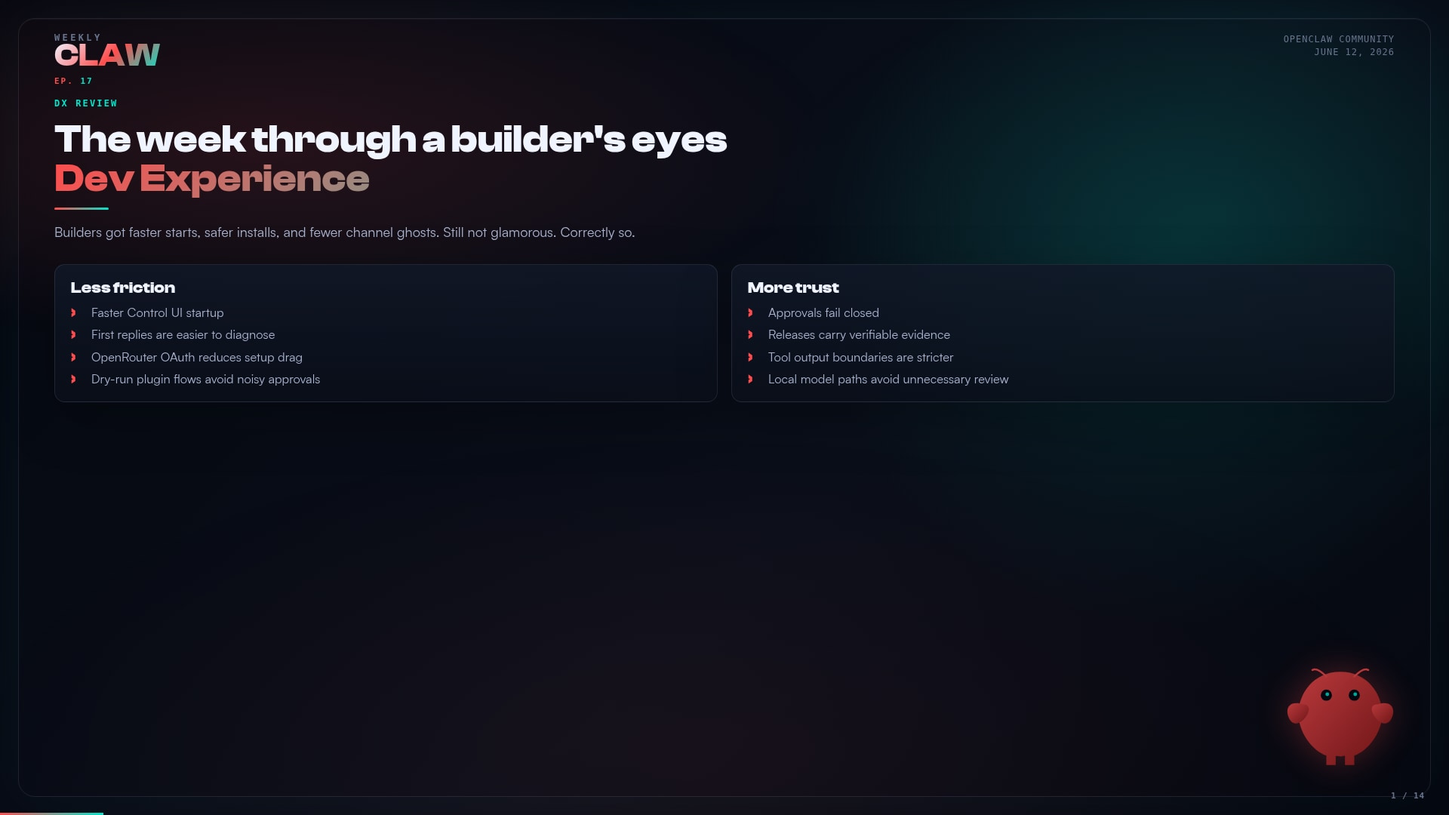
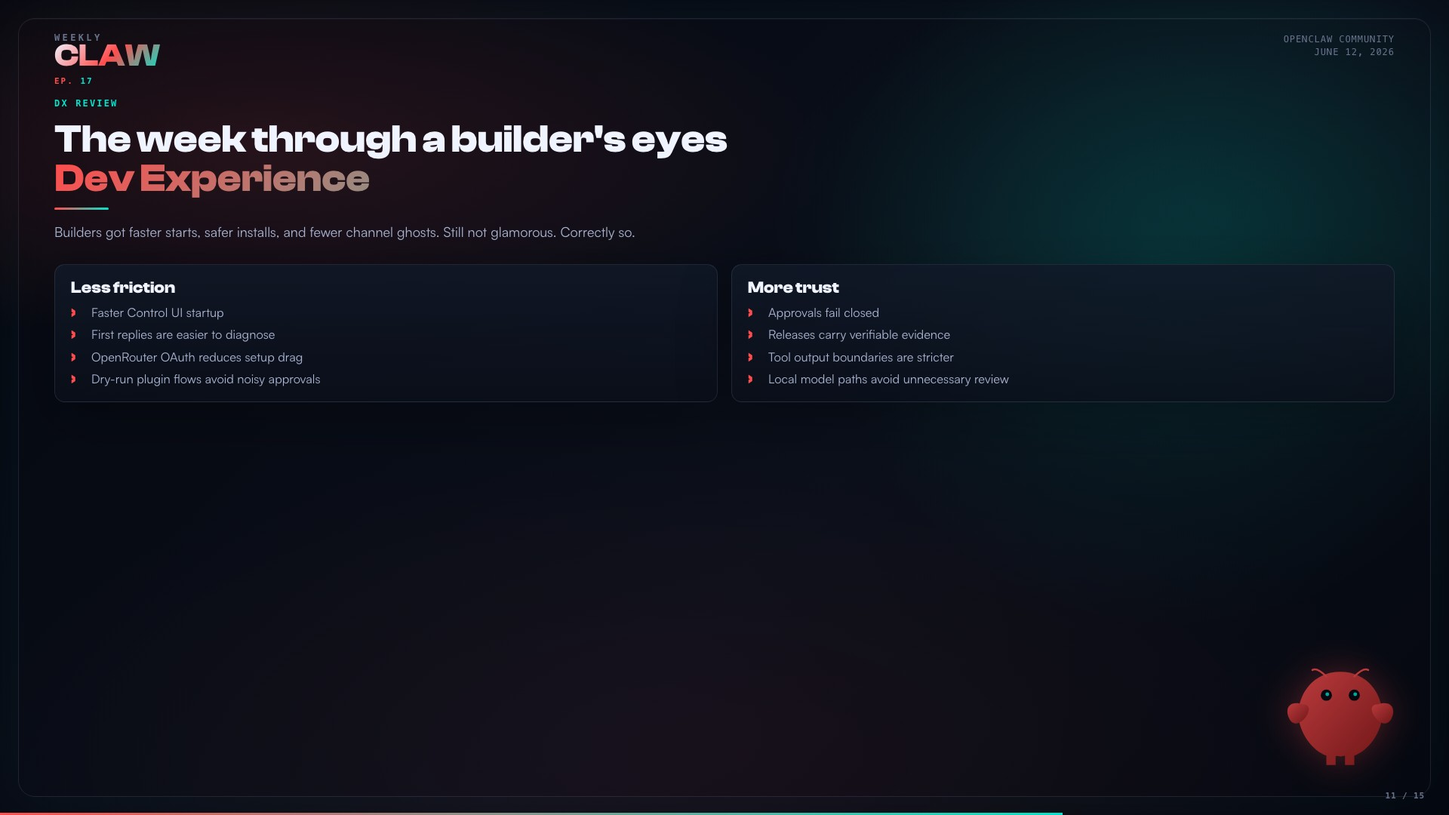
fix: add Peter BRK245 signal to Weekly Claw week 17

Changed region(s): [[0.0, 0.9778, 0.7188, 1.0]]

diff --git a/public/weekly-claw/week17/deck.html b/public/weekly-claw/week17/deck.html
@@ -6,7 +6,7 @@
 :root{--bg-deep:#050810;--bg-surface:#0a0f1a;--bg-elevated:#111827;--coral-bright:#ff4d4d;--coral-mid:#e63946;--coral-dark:#991b1b;--cyan-bright:#00e5cc;--cyan-mid:#14b8a6;--cyan-glow:rgba(0,229,204,.4);--text-primary:#f0f4ff;--text-secondary:#aab4d0;--text-muted:#69748f;--border-subtle:rgba(136,146,176,.18);--border-accent:rgba(255,77,77,.34);--surface-card:rgba(10,15,26,.72);--surface-card-strong:rgba(10,15,26,.88);--surface-cyan-soft:rgba(0,229,204,.13);--surface-coral-soft:rgba(255,77,77,.13);--logo-gradient-start:#ff4d4d;--logo-gradient-end:#991b1b;--logo-glow:rgba(255,77,77,.42);--font-display:"Clash Display",system-ui,sans-serif;--font-body:"Satoshi",system-ui,sans-serif;--font-mono:"SF Mono","JetBrains Mono","Fira Code",monospace}
 *,*::before,*::after{box-sizing:border-box;margin:0;padding:0}html,body{width:100%;height:100%;overflow:hidden;background:var(--bg-deep);color:var(--text-primary);font-family:var(--font-body);-webkit-font-smoothing:antialiased;-moz-osx-font-smoothing:grayscale}body::before{content:"";position:fixed;inset:0;background-image:radial-gradient(2px 2px at 20px 30px,rgba(255,255,255,.7),transparent),radial-gradient(2px 2px at 200px 60px,rgba(0,229,204,.5),transparent),radial-gradient(1px 1px at 90px 40px,rgba(255,255,255,.5),transparent),radial-gradient(2px 2px at 300px 40px,rgba(255,77,77,.35),transparent);background-size:350px 200px;opacity:.42;pointer-events:none}body::after{content:"";position:fixed;inset:0;background:radial-gradient(ellipse 80% 50% at 18% 18%,rgba(255,77,77,.13),transparent 50%),radial-gradient(ellipse 60% 60% at 84% 26%,rgba(0,229,204,.09),transparent 52%),radial-gradient(ellipse 90% 70% at 48% 92%,rgba(255,77,77,.06),transparent 56%);pointer-events:none}.deck{position:relative;width:100vw;height:100vh}.slide{position:absolute;inset:0;display:none;flex-direction:column;min-height:100vh;padding:44px 72px 42px;overflow:hidden;background:linear-gradient(135deg,rgba(5,8,16,.98),rgba(10,15,26,.98) 58%,rgba(5,8,16,.98));opacity:0;pointer-events:none}.slide.active{display:flex!important;opacity:1;pointer-events:auto}.slide::before{content:"";position:absolute;inset:24px;border:1px solid var(--border-subtle);border-radius:22px;box-shadow:0 0 80px rgba(0,229,204,.045),inset 0 1px 0 rgba(255,255,255,.04);pointer-events:none}.slide::after{content:"";position:absolute;right:-10vw;top:-18vh;width:58vw;height:58vw;border-radius:50%;background:radial-gradient(circle,rgba(0,229,204,.10),transparent 60%);pointer-events:none}.slide>*{position:relative;z-index:2}.topbar{display:flex;justify-content:space-between;align-items:flex-start;gap:28px;margin-bottom:30px}.claw-wordmark{display:flex;flex-direction:column;line-height:1;margin-bottom:22px}.topbar .claw-wordmark{margin-bottom:0}.claw-weekly{font:700 12px/1 var(--font-mono);letter-spacing:.28em;color:var(--text-muted);text-transform:uppercase}.claw-claw{font:700 42px/.9 var(--font-display);letter-spacing:0;background:linear-gradient(135deg,var(--text-primary),var(--coral-bright) 52%,var(--cyan-bright));-webkit-background-clip:text;background-clip:text;-webkit-text-fill-color:transparent}.claw-ep{margin-top:8px;font:700 11px/1 var(--font-mono);letter-spacing:.18em;color:var(--coral-bright);text-transform:uppercase}.ep-num{font-style:normal;color:var(--cyan-bright)}.meta{font:500 12px/1.45 var(--font-mono);color:var(--text-muted);text-align:right;text-transform:uppercase;letter-spacing:.08em}.ep-label,.eyebrow{font:700 12px/1 var(--font-mono);letter-spacing:.18em;color:var(--cyan-bright);text-transform:uppercase;margin-bottom:16px}.layout-title{justify-content:flex-start}.layout-outro{justify-content:center}.title-hero,h1,h2,.slide-title{font-family:var(--font-display);font-weight:700;letter-spacing:0;color:var(--text-primary)}.title-hero{font-size:clamp(42px,5.6vw,66px);line-height:.96;max-width:1060px;margin:0 0 18px}.title-hero em,.slide-title .accent{font-style:normal;background:linear-gradient(135deg,var(--coral-bright),var(--cyan-bright));-webkit-background-clip:text;background-clip:text;-webkit-text-fill-color:transparent}.title-hero em{display:block;font-size:.68em;line-height:1.02;margin-top:.08em}h2,.slide-title{font-size:clamp(38px,5.2vw,60px);line-height:1;max-width:1080px;margin:0 0 16px}.slide-title .accent{display:block}.gold-rule{width:72px;height:3px;border-radius:999px;background:linear-gradient(90deg,var(--coral-bright),var(--cyan-bright));margin:0 0 24px}.lead{font-size:clamp(17px,1.75vw,21px);line-height:1.42;color:var(--text-secondary);max-width:1080px;margin:0 0 18px}.card{border:1px solid var(--border-subtle);background:linear-gradient(180deg,rgba(17,24,39,.86),rgba(10,15,26,.76));border-radius:14px;box-shadow:0 22px 70px rgba(0,0,0,.28);padding:18px 24px;max-width:1120px}.grid{display:grid;grid-template-columns:repeat(2,minmax(0,1fr));gap:20px;margin:auto 0}.grid.three-tight{grid-template-columns:repeat(3,minmax(0,1fr));gap:14px;margin:10px 0 0;align-items:stretch}.grid.three-tight .card{padding:14px 17px}.grid.three-tight .card strong{font-size:18px;line-height:1.1;margin-bottom:8px}.grid.three-tight li{font-size:14.8px;line-height:1.16;gap:9px}.grid.three-tight li::before{font-size:20px;min-width:10px}.grid.two-tight{grid-template-columns:repeat(2,minmax(0,1fr));gap:18px;margin:18px 0 0;align-items:stretch}.grid.two-tight .card{padding:18px 21px}.grid.two-tight li{font-size:16.4px;line-height:1.22}.card strong{display:block;font:700 22px/1.15 var(--font-display);color:var(--text-primary);margin-bottom:10px}ul,.bullet-list{list-style:none;display:flex;flex-direction:column;gap:8px;margin:10px 0 0;padding:0;max-width:1080px}li,.bullet-list li{display:flex;gap:12px;align-items:flex-start;font-size:clamp(15px,1.42vw,18px);line-height:1.3;color:var(--text-secondary);margin:0}li::before,.bullet-list li::before{content:"›";font:700 25px/.86 var(--font-display);color:var(--coral-bright);min-width:15px}.meta-pill{display:inline-flex;align-items:center;border:1px solid rgba(0,229,204,.34);border-radius:999px;padding:7px 11px;margin-top:14px;background:var(--surface-cyan-soft);color:var(--cyan-bright);font:600 12px/1 var(--font-mono)}.caption{display:none}.lobster-icon{position:absolute;right:70px;bottom:54px;width:148px;height:148px;opacity:.80;filter:drop-shadow(0 0 24px var(--logo-glow));z-index:1;pointer-events:none}.layout-title .lobster-icon{width:150px;height:150px;right:46px;bottom:34px;opacity:.58}.slide:not(.layout-title) .lobster-icon{opacity:.72}.lobster-icon svg{width:100%;height:100%}.slide-counter,.nav-hint{position:fixed;z-index:30;bottom:20px;color:var(--text-muted);font:600 11px/1 var(--font-mono);letter-spacing:.08em}.slide-counter{right:32px}.nav-hint{left:32px;display:none}.progress-bar{position:fixed;z-index:30;bottom:0;left:0;height:3px;background:linear-gradient(90deg,var(--coral-bright),var(--cyan-bright));transition:width .25s ease}.compact-slide .topbar{margin-bottom:18px}.compact-slide h2,.compact-slide .slide-title{font-size:clamp(34px,4.6vw,52px);margin-bottom:12px}.compact-slide .lead{font-size:clamp(15px,1.45vw,18px);line-height:1.32;margin-bottom:12px}.compact-slide .gold-rule{margin-bottom:18px}@media(max-width:900px){.slide{padding:42px 34px 40px}.slide::before{inset:12px;border-radius:16px}.topbar,.grid,.grid.two-tight,.grid.three-tight{grid-template-columns:1fr;display:grid}h2,.slide-title{font-size:44px}.title-hero{font-size:52px}.lead,li,.bullet-list li{font-size:17px}.lobster-icon{right:26px;bottom:42px;width:110px;height:110px}}@media print{html,body{overflow:visible}.deck{height:auto}.slide,.slide:not(.active){position:relative;display:flex!important;opacity:1;min-height:100vh;page-break-after:always}.progress-bar,.slide-counter,.nav-hint{display:none}}
 </style></head><body>
-<div aria-label="Weekly Claw Ep. 17 slides" class="deck" id="deck" role="main"><section class="slide active layout-title" id="s1"><div class="claw-wordmark"><span class="claw-weekly">Weekly</span><span class="claw-claw">CLAW</span><span class="claw-ep">Ep. <em class="ep-num">17</em></span></div><div class="ep-label">Weekly Claw · Ep. 17</div><h1 class="title-hero">OpenClaw Change log &amp; Dev Experience<br/><em>Weekly Claw Ep. 17</em></h1><div class="gold-rule"></div><p class="lead">Two stable releases, 1,265 commits, and a week mostly spent tightening the runtime boundaries.</p><div class="grid"><div class="card"><strong>Release window</strong><ul class="bullet-list"><li>v2026.6.5 on June 9</li><li>v2026.6.6 on June 12</li><li>June 5 to June 12, 2026</li></ul></div><div class="card"><strong>Main story</strong><ul class="bullet-list"><li>Security surfaces fail closed more often</li><li>Channels survive restarts more cleanly</li><li>Release proof got stricter</li></ul></div></div><span class="meta-pill">week17-boundaries.html</span><p class="caption">OpenClaw Weekly Dev Experience · slide 1 / 14</p></section><section class="slide layout-topic compact-slide" id="s2"><div class="topbar"><div class="claw-wordmark"><span class="claw-weekly">Weekly</span><span class="claw-claw">CLAW</span><span class="claw-ep">Ep. <em class="ep-num">17</em></span></div><div class="meta">OpenClaw Community<br/>June 12, 2026</div></div><div class="ep-label">Community pulse</div><h2 class="slide-title">The week in raw signal<br/><span class="accent">Throughput</span></h2><div class="gold-rule"></div><p class="lead">A fix-heavy, test-heavy week with broad contribution and two stable releases.</p><div class="grid three-tight"><div class="card"><strong>Numbers</strong><ul class="bullet-list"><li>1,265 commits</li><li>131 authors</li><li>187 release issue refs across 6.5 and 6.6</li></ul></div><div class="card"><strong>Commit mix</strong><ul class="bullet-list"><li>794 fixes</li><li>191 tests</li><li>117 docs</li><li>30 features</li></ul></div><div class="card"><strong>Top contributors</strong><ul class="bullet-list"><li>Vincent Koc 525</li><li>Shakker 172</li><li>Peter Steinberger 118</li><li>Ayaan Zaidi 55</li><li>joshavant 52</li></ul></div></div><p class="caption">OpenClaw Weekly Dev Experience · slide 2 / 14</p></section><section class="slide layout-topic compact-slide" id="s3"><div class="topbar"><div class="claw-wordmark"><span class="claw-weekly">Weekly</span><span class="claw-claw">CLAW</span><span class="claw-ep">Ep. <em class="ep-num">17</em></span></div><div class="meta">OpenClaw Community<br/>June 12, 2026</div></div><div class="ep-label">Release map</div><h2 class="slide-title">Two stable releases, one hardening arc<br/><span class="accent">6.5 + 6.6</span></h2><div class="gold-rule"></div><p class="lead">The release train split into two useful stories: richer provider/channel support in 6.5, then tighter boundaries in 6.6.</p><div class="grid two-tight"><div class="card"><strong>v2026.6.5</strong><ul class="bullet-list"><li>70 release bullets</li><li>83 issue refs</li><li>QQBot reasoning cleanup</li><li>Parallel web search provider</li><li>Auth and plugin install durability</li></ul></div><div class="card"><strong>v2026.6.6</strong><ul class="bullet-list"><li>34 release bullets</li><li>104 issue refs</li><li>Security boundary hardening</li><li>Telegram and iMessage recovery</li><li>Control UI startup speed</li></ul></div></div><p class="caption">OpenClaw Weekly Dev Experience · slide 3 / 14</p></section><section class="slide layout-topic" id="s4"><div class="topbar"><div class="claw-wordmark"><span class="claw-weekly">Weekly</span><span class="claw-claw">CLAW</span><span class="claw-ep">Ep. <em class="ep-num">17</em></span></div><div class="meta">OpenClaw Community<br/>June 12, 2026</div></div><div class="ep-label">Security</div><h2 class="slide-title">Boundaries got tighter, and they fail closed<br/><span class="accent">Runtime safety</span></h2><div class="gold-rule"></div><p class="lead">The largest 6.6 theme was reducing silent trust leaks across transcripts, tools, channels, and delegated runtimes.</p><div class="grid two-tight"><div class="card"><strong>Locked down</strong><ul class="bullet-list"><li>Transcript and image redaction tightened</li><li>Sandbox binds and host env inheritance restricted</li><li>MCP stdio and loopback tools hardened</li><li>Codex HTTP and native search policies narrowed</li></ul></div><div class="card"><strong>Fail closed</strong><ul class="bullet-list"><li>Exec approvals fail closed on timeout</li><li>Elevated sender checks improved</li><li>Deleted-agent ACP bypass closed</li><li>Discord moderation and Teams group actions bounded</li></ul></div></div><p class="caption">OpenClaw Weekly Dev Experience · slide 4 / 14</p></section><section class="slide layout-topic" id="s5"><div class="topbar"><div class="claw-wordmark"><span class="claw-weekly">Weekly</span><span class="claw-claw">CLAW</span><span class="claw-ep">Ep. <em class="ep-num">17</em></span></div><div class="meta">OpenClaw Community<br/>June 12, 2026</div></div><div class="ep-label">Channels</div><h2 class="slide-title">Delivery that survives restarts<br/><span class="accent">Channel durability</span></h2><div class="gold-rule"></div><p class="lead">Messaging reliability moved from best effort toward durable routing, dedupe, and restart recovery.</p><div class="grid two-tight"><div class="card"><strong>Telegram</strong><ul class="bullet-list"><li>Account-scoped topics route to the right agent</li><li>Streamed text survives tool calls</li><li>Generic ingress supports /compact</li><li>Durable dispatch dedupe moved into the SDK</li></ul></div><div class="card"><strong>Other channels</strong><ul class="bullet-list"><li>iMessage always-on inbound restart</li><li>WhatsApp replies attach to the successor controller</li><li>Feishu rate limits retry</li><li>Mattermost thread replies preserved</li></ul></div></div><p class="caption">OpenClaw Weekly Dev Experience · slide 5 / 14</p></section><section class="slide layout-topic" id="s6"><div class="topbar"><div class="claw-wordmark"><span class="claw-weekly">Weekly</span><span class="claw-claw">CLAW</span><span class="claw-ep">Ep. <em class="ep-num">17</em></span></div><div class="meta">OpenClaw Community<br/>June 12, 2026</div></div><div class="ep-label">Browser and MCP</div><h2 class="slide-title">Real sessions, safer edges<br/><span class="accent">Connectivity</span></h2><div class="gold-rule"></div><p class="lead">Browser and MCP integrations gained reach without turning every tool boundary into a trust fall.</p><div class="grid two-tight"><div class="card"><strong>Browser</strong><ul class="bullet-list"><li>Existing-session CDP support</li><li>Discovered WebSocket validation</li><li>Default-profile cdpUrl handling</li><li>Browser output boundaries tightened</li></ul></div><div class="card"><strong>MCP</strong><ul class="bullet-list"><li>Streamable HTTP loopback transport</li><li>OAuth and SSE authorization corrected</li><li>Richer tool results coerced before provider calls</li><li>Lease and timestamp handling got stricter</li></ul></div></div><p class="caption">OpenClaw Weekly Dev Experience · slide 6 / 14</p></section><section class="slide layout-topic" id="s7"><div class="topbar"><div class="claw-wordmark"><span class="claw-weekly">Weekly</span><span class="claw-claw">CLAW</span><span class="claw-ep">Ep. <em class="ep-num">17</em></span></div><div class="meta">OpenClaw Community<br/>June 12, 2026</div></div><div class="ep-label">Control UI</div><h2 class="slide-title">Startup got faster, first replies got visible<br/><span class="accent">Latency</span></h2><div class="gold-rule"></div><p class="lead">The UI work was not cosmetic. It attacked startup wait, first-event mystery, and model catalog churn.</p><div class="grid two-tight"><div class="card"><strong>Speed</strong><ul class="bullet-list"><li>Cached model metadata at startup</li><li>Startup catalog wait removed</li><li>Slash commands load lazily</li><li>TUI runtime plugins prewarm</li></ul></div><div class="card"><strong>Diagnostics</strong><ul class="bullet-list"><li>First-assistant-event traces</li><li>Slow-reply warnings</li><li>Active connection host visible in TUI</li><li>Derived-registry rescan storms reduced</li></ul></div></div><p class="caption">OpenClaw Weekly Dev Experience · slide 7 / 14</p></section><section class="slide layout-topic" id="s8"><div class="topbar"><div class="claw-wordmark"><span class="claw-weekly">Weekly</span><span class="claw-claw">CLAW</span><span class="claw-ep">Ep. <em class="ep-num">17</em></span></div><div class="meta">OpenClaw Community<br/>June 12, 2026</div></div><div class="ep-label">Providers</div><h2 class="slide-title">More providers, fewer weird failures<br/><span class="accent">Model surface</span></h2><div class="gold-rule"></div><p class="lead">Provider support expanded while reasoning replay, compaction ownership, and local-model behavior got cleaner.</p><div class="grid two-tight"><div class="card"><strong>New support</strong><ul class="bullet-list"><li>OpenRouter OAuth onboarding</li><li>Claude Fable 5 adaptive thinking</li><li>Parallel bundled as web_search</li><li>Google Vertex ADC rows and runtime resolution restored</li></ul></div><div class="card"><strong>Correctness</strong><ul class="bullet-list"><li>Codex compaction ownership preserved</li><li>Local models skip guardian review</li><li>Gemma 4 reasoning replay preserved</li><li>Provider cooldown recovery improved</li></ul></div></div><p class="caption">OpenClaw Weekly Dev Experience · slide 8 / 14</p></section><section class="slide layout-topic" id="s9"><div class="topbar"><div class="claw-wordmark"><span class="claw-weekly">Weekly</span><span class="claw-claw">CLAW</span><span class="claw-ep">Ep. <em class="ep-num">17</em></span></div><div class="meta">OpenClaw Community<br/>June 12, 2026</div></div><div class="ep-label">Cron and plugins</div><h2 class="slide-title">Jobs and installs left better receipts<br/><span class="accent">Lifecycle</span></h2><div class="gold-rule"></div><p class="lead">Scheduled runs, plugin installs, and ClawHub flows became harder to fake-green.</p><div class="grid two-tight"><div class="card"><strong>Cron</strong><ul class="bullet-list"><li>Active task runs cancel cleanly</li><li>Terminal timeout state is preserved</li><li>No-deliver tool warnings recover</li><li>Legacy cron JSON stores migrate during doctor preflight</li></ul></div><div class="card"><strong>Plugins</strong><ul class="bullet-list"><li>Dry runs skip publish approval</li><li>Trusted hooks can be declared</li><li>Managed plugin drift is reported</li><li>Official npm plugin pins stay intact</li></ul></div></div><p class="caption">OpenClaw Weekly Dev Experience · slide 9 / 14</p></section><section class="slide layout-topic" id="s10"><div class="topbar"><div class="claw-wordmark"><span class="claw-weekly">Weekly</span><span class="claw-claw">CLAW</span><span class="claw-ep">Ep. <em class="ep-num">17</em></span></div><div class="meta">OpenClaw Community<br/>June 12, 2026</div></div><div class="ep-label">Release proof</div><h2 class="slide-title">Release proof got stricter<br/><span class="accent">Evidence lanes</span></h2><div class="gold-rule"></div><p class="lead">The release system now fails louder when proof is missing, oversized, or impossible to inspect.</p><div class="grid two-tight"><div class="card"><strong>Gates</strong><ul class="bullet-list"><li>Beta pages stay draft until npm and plugin proof pass</li><li>QA Lab requires runtime tool-call evidence</li><li>Resource ceilings are enforced, not only logged</li><li>Docker and E2E diagnostics are bounded</li></ul></div><div class="card"><strong>Receipts</strong><ul class="bullet-list"><li>npm package and tarball integrity</li><li>Release SHA and CI run links</li><li>Full evidence reports for 6.5 and 6.6</li><li>Plugin publish proof separated from core publish proof</li></ul></div></div><p class="caption">OpenClaw Weekly Dev Experience · slide 10 / 14</p></section><section class="slide layout-topic compact-slide" id="s11"><div class="topbar"><div class="claw-wordmark"><span class="claw-weekly">Weekly</span><span class="claw-claw">CLAW</span><span class="claw-ep">Ep. <em class="ep-num">17</em></span></div><div class="meta">OpenClaw Community<br/>June 12, 2026</div></div><div class="ep-label">DX review</div><h2 class="slide-title">The week through a builder&#x27;s eyes<br/><span class="accent">Dev Experience</span></h2><div class="gold-rule"></div><p class="lead">Builders got faster starts, safer installs, and fewer channel ghosts. Still not glamorous. Correctly so.</p><div class="grid two-tight"><div class="card"><strong>Less friction</strong><ul class="bullet-list"><li>Faster Control UI startup</li><li>First replies are easier to diagnose</li><li>OpenRouter OAuth reduces setup drag</li><li>Dry-run plugin flows avoid noisy approvals</li></ul></div><div class="card"><strong>More trust</strong><ul class="bullet-list"><li>Approvals fail closed</li><li>Releases carry verifiable evidence</li><li>Tool output boundaries are stricter</li><li>Local model paths avoid unnecessary review</li></ul></div></div><p class="caption">OpenClaw Weekly Dev Experience · slide 11 / 14</p></section><section class="slide layout-topic compact-slide" id="s12"><div class="topbar"><div class="claw-wordmark"><span class="claw-weekly">Weekly</span><span class="claw-claw">CLAW</span><span class="claw-ep">Ep. <em class="ep-num">17</em></span></div><div class="meta">OpenClaw Community<br/>June 12, 2026</div></div><div class="ep-label">Community signal</div><h2 class="slide-title">The community is testing the edges<br/><span class="accent">Signal</span></h2><div class="gold-rule"></div><p class="lead">The busiest labels and release notes point to the same pattern: session state, proof, compatibility, and maintainer review pressure.</p><div class="grid two-tight"><div class="card"><strong>Repeated pressure</strong><ul class="bullet-list"><li>Session-state issues stayed prominent</li><li>Compatibility risk labels stayed loud</li><li>Proof supplied and proof sufficient both showed up heavily</li><li>Maintainer review queues remained visible</li></ul></div><div class="card"><strong>Good sign</strong><ul class="bullet-list"><li>A fix-heavy week is not stagnation</li><li>It means real users are finding seams</li><li>The runtime is being forced to explain itself</li></ul></div></div><p class="caption">OpenClaw Weekly Dev Experience · slide 12 / 14</p></section><section class="slide layout-topic compact-slide" id="s13"><div class="topbar"><div class="claw-wordmark"><span class="claw-weekly">Weekly</span><span class="claw-claw">CLAW</span><span class="claw-ep">Ep. <em class="ep-num">17</em></span></div><div class="meta">OpenClaw Community<br/>June 12, 2026</div></div><div class="ep-label">Signal map</div><h2 class="slide-title">Where to watch next<br/><span class="accent">Next bar</span></h2><div class="gold-rule"></div><p class="lead">The next useful work is not more surface area. It is clearer state, safer defaults, and receipts that survive handoff.</p><div class="grid two-tight"><div class="card"><strong>Watch</strong><ul class="bullet-list"><li>Provider onboarding and OAuth failure clarity</li><li>Channel delivery after restarts</li><li>Cron no-deliver and timeout reporting</li><li>Plugin install trust and rollback paths</li></ul></div><div class="card"><strong>Ask</strong><ul class="bullet-list"><li>Can a new builder explain the failure state?</li><li>Can maintainers audit the run without logs archaeology?</li><li>Can every risky action show its boundary?</li><li>Can proof stay small enough to inspect?</li></ul></div></div><p class="caption">OpenClaw Weekly Dev Experience · slide 13 / 14</p></section><section class="slide layout-outro" id="s14"><div class="ep-label">Summary</div><h2 class="slide-title">OpenClaw is becoming operational infrastructure<br/><span class="accent">Close</span></h2><div class="gold-rule"></div><p class="lead">Week 17 was not a shiny-feature week. It was better: the runtime got stricter about who can act, what can leak, how channels recover, and what proof must exist before a release ships.</p><div class="grid"><div class="card"><strong>Bottom line</strong><ul class="bullet-list"><li>Two stable releases</li><li>1,265 commits</li><li>Security and delivery hardening</li><li>A clearer path from agent demos to agent operations</li></ul></div></div><p class="caption">OpenClaw Weekly Dev Experience · slide 14 / 14</p></section></div>
+<div aria-label="Weekly Claw Ep. 17 slides" class="deck" id="deck" role="main"><section class="slide active layout-title" id="s1"><div class="claw-wordmark"><span class="claw-weekly">Weekly</span><span class="claw-claw">CLAW</span><span class="claw-ep">Ep. <em class="ep-num">17</em></span></div><div class="ep-label">Weekly Claw · Ep. 17</div><h1 class="title-hero">OpenClaw Change log &amp; Dev Experience<br/><em>Weekly Claw Ep. 17</em></h1><div class="gold-rule"></div><p class="lead">Two stable releases, 1,265 commits, and a week mostly spent tightening the runtime boundaries.</p><div class="grid"><div class="card"><strong>Release window</strong><ul class="bullet-list"><li>v2026.6.5 on June 9</li><li>v2026.6.6 on June 12</li><li>June 5 to June 12, 2026</li></ul></div><div class="card"><strong>Main story</strong><ul class="bullet-list"><li>Security surfaces fail closed more often</li><li>Channels survive restarts more cleanly</li><li>Release proof got stricter</li></ul></div></div><span class="meta-pill">week17-boundaries.html</span><p class="caption">OpenClaw Weekly Dev Experience · slide 1 / 15</p></section><section class="slide layout-topic compact-slide" id="s2"><div class="topbar"><div class="claw-wordmark"><span class="claw-weekly">Weekly</span><span class="claw-claw">CLAW</span><span class="claw-ep">Ep. <em class="ep-num">17</em></span></div><div class="meta">OpenClaw Community<br/>June 12, 2026</div></div><div class="ep-label">Community pulse</div><h2 class="slide-title">The week in raw signal<br/><span class="accent">Throughput</span></h2><div class="gold-rule"></div><p class="lead">A fix-heavy, test-heavy week with broad contribution and two stable releases.</p><div class="grid three-tight"><div class="card"><strong>Numbers</strong><ul class="bullet-list"><li>1,265 commits</li><li>131 authors</li><li>187 release issue refs across 6.5 and 6.6</li></ul></div><div class="card"><strong>Commit mix</strong><ul class="bullet-list"><li>794 fixes</li><li>191 tests</li><li>117 docs</li><li>30 features</li></ul></div><div class="card"><strong>Top contributors</strong><ul class="bullet-list"><li>Vincent Koc 525</li><li>Shakker 172</li><li>Peter Steinberger 118</li><li>Ayaan Zaidi 55</li><li>joshavant 52</li></ul></div></div><p class="caption">OpenClaw Weekly Dev Experience · slide 2 / 15</p></section><section class="slide layout-topic compact-slide" id="s3"><div class="topbar"><div class="claw-wordmark"><span class="claw-weekly">Weekly</span><span class="claw-claw">CLAW</span><span class="claw-ep">Ep. <em class="ep-num">17</em></span></div><div class="meta">OpenClaw Community<br/>June 12, 2026</div></div><div class="ep-label">Release map</div><h2 class="slide-title">Two stable releases, one hardening arc<br/><span class="accent">6.5 + 6.6</span></h2><div class="gold-rule"></div><p class="lead">The release train split into two useful stories: richer provider/channel support in 6.5, then tighter boundaries in 6.6.</p><div class="grid two-tight"><div class="card"><strong>v2026.6.5</strong><ul class="bullet-list"><li>70 release bullets</li><li>83 issue refs</li><li>QQBot reasoning cleanup</li><li>Parallel web search provider</li><li>Auth and plugin install durability</li></ul></div><div class="card"><strong>v2026.6.6</strong><ul class="bullet-list"><li>34 release bullets</li><li>104 issue refs</li><li>Security boundary hardening</li><li>Telegram and iMessage recovery</li><li>Control UI startup speed</li></ul></div></div><p class="caption">OpenClaw Weekly Dev Experience · slide 3 / 15</p></section><section class="slide layout-topic" id="s4"><div class="topbar"><div class="claw-wordmark"><span class="claw-weekly">Weekly</span><span class="claw-claw">CLAW</span><span class="claw-ep">Ep. <em class="ep-num">17</em></span></div><div class="meta">OpenClaw Community<br/>June 12, 2026</div></div><div class="ep-label">Security</div><h2 class="slide-title">Boundaries got tighter, and they fail closed<br/><span class="accent">Runtime safety</span></h2><div class="gold-rule"></div><p class="lead">The largest 6.6 theme was reducing silent trust leaks across transcripts, tools, channels, and delegated runtimes.</p><div class="grid two-tight"><div class="card"><strong>Locked down</strong><ul class="bullet-list"><li>Transcript and image redaction tightened</li><li>Sandbox binds and host env inheritance restricted</li><li>MCP stdio and loopback tools hardened</li><li>Codex HTTP and native search policies narrowed</li></ul></div><div class="card"><strong>Fail closed</strong><ul class="bullet-list"><li>Exec approvals fail closed on timeout</li><li>Elevated sender checks improved</li><li>Deleted-agent ACP bypass closed</li><li>Discord moderation and Teams group actions bounded</li></ul></div></div><p class="caption">OpenClaw Weekly Dev Experience · slide 4 / 15</p></section><section class="slide layout-topic" id="s5"><div class="topbar"><div class="claw-wordmark"><span class="claw-weekly">Weekly</span><span class="claw-claw">CLAW</span><span class="claw-ep">Ep. <em class="ep-num">17</em></span></div><div class="meta">OpenClaw Community<br/>June 12, 2026</div></div><div class="ep-label">Channels</div><h2 class="slide-title">Delivery that survives restarts<br/><span class="accent">Channel durability</span></h2><div class="gold-rule"></div><p class="lead">Messaging reliability moved from best effort toward durable routing, dedupe, and restart recovery.</p><div class="grid two-tight"><div class="card"><strong>Telegram</strong><ul class="bullet-list"><li>Account-scoped topics route to the right agent</li><li>Streamed text survives tool calls</li><li>Generic ingress supports /compact</li><li>Durable dispatch dedupe moved into the SDK</li></ul></div><div class="card"><strong>Other channels</strong><ul class="bullet-list"><li>iMessage always-on inbound restart</li><li>WhatsApp replies attach to the successor controller</li><li>Feishu rate limits retry</li><li>Mattermost thread replies preserved</li></ul></div></div><p class="caption">OpenClaw Weekly Dev Experience · slide 5 / 15</p></section><section class="slide layout-topic" id="s6"><div class="topbar"><div class="claw-wordmark"><span class="claw-weekly">Weekly</span><span class="claw-claw">CLAW</span><span class="claw-ep">Ep. <em class="ep-num">17</em></span></div><div class="meta">OpenClaw Community<br/>June 12, 2026</div></div><div class="ep-label">Browser and MCP</div><h2 class="slide-title">Real sessions, safer edges<br/><span class="accent">Connectivity</span></h2><div class="gold-rule"></div><p class="lead">Browser and MCP integrations gained reach without turning every tool boundary into a trust fall.</p><div class="grid two-tight"><div class="card"><strong>Browser</strong><ul class="bullet-list"><li>Existing-session CDP support</li><li>Discovered WebSocket validation</li><li>Default-profile cdpUrl handling</li><li>Browser output boundaries tightened</li></ul></div><div class="card"><strong>MCP</strong><ul class="bullet-list"><li>Streamable HTTP loopback transport</li><li>OAuth and SSE authorization corrected</li><li>Richer tool results coerced before provider calls</li><li>Lease and timestamp handling got stricter</li></ul></div></div><p class="caption">OpenClaw Weekly Dev Experience · slide 6 / 15</p></section><section class="slide layout-topic" id="s7"><div class="topbar"><div class="claw-wordmark"><span class="claw-weekly">Weekly</span><span class="claw-claw">CLAW</span><span class="claw-ep">Ep. <em class="ep-num">17</em></span></div><div class="meta">OpenClaw Community<br/>June 12, 2026</div></div><div class="ep-label">Control UI</div><h2 class="slide-title">Startup got faster, first replies got visible<br/><span class="accent">Latency</span></h2><div class="gold-rule"></div><p class="lead">The UI work was not cosmetic. It attacked startup wait, first-event mystery, and model catalog churn.</p><div class="grid two-tight"><div class="card"><strong>Speed</strong><ul class="bullet-list"><li>Cached model metadata at startup</li><li>Startup catalog wait removed</li><li>Slash commands load lazily</li><li>TUI runtime plugins prewarm</li></ul></div><div class="card"><strong>Diagnostics</strong><ul class="bullet-list"><li>First-assistant-event traces</li><li>Slow-reply warnings</li><li>Active connection host visible in TUI</li><li>Derived-registry rescan storms reduced</li></ul></div></div><p class="caption">OpenClaw Weekly Dev Experience · slide 7 / 15</p></section><section class="slide layout-topic" id="s8"><div class="topbar"><div class="claw-wordmark"><span class="claw-weekly">Weekly</span><span class="claw-claw">CLAW</span><span class="claw-ep">Ep. <em class="ep-num">17</em></span></div><div class="meta">OpenClaw Community<br/>June 12, 2026</div></div><div class="ep-label">Providers</div><h2 class="slide-title">More providers, fewer weird failures<br/><span class="accent">Model surface</span></h2><div class="gold-rule"></div><p class="lead">Provider support expanded while reasoning replay, compaction ownership, and local-model behavior got cleaner.</p><div class="grid two-tight"><div class="card"><strong>New support</strong><ul class="bullet-list"><li>OpenRouter OAuth onboarding</li><li>Claude Fable 5 adaptive thinking</li><li>Parallel bundled as web_search</li><li>Google Vertex ADC rows and runtime resolution restored</li></ul></div><div class="card"><strong>Correctness</strong><ul class="bullet-list"><li>Codex compaction ownership preserved</li><li>Local models skip guardian review</li><li>Gemma 4 reasoning replay preserved</li><li>Provider cooldown recovery improved</li></ul></div></div><p class="caption">OpenClaw Weekly Dev Experience · slide 8 / 15</p></section><section class="slide layout-topic" id="s9"><div class="topbar"><div class="claw-wordmark"><span class="claw-weekly">Weekly</span><span class="claw-claw">CLAW</span><span class="claw-ep">Ep. <em class="ep-num">17</em></span></div><div class="meta">OpenClaw Community<br/>June 12, 2026</div></div><div class="ep-label">Cron and plugins</div><h2 class="slide-title">Jobs and installs left better receipts<br/><span class="accent">Lifecycle</span></h2><div class="gold-rule"></div><p class="lead">Scheduled runs, plugin installs, and ClawHub flows became harder to fake-green.</p><div class="grid two-tight"><div class="card"><strong>Cron</strong><ul class="bullet-list"><li>Active task runs cancel cleanly</li><li>Terminal timeout state is preserved</li><li>No-deliver tool warnings recover</li><li>Legacy cron JSON stores migrate during doctor preflight</li></ul></div><div class="card"><strong>Plugins</strong><ul class="bullet-list"><li>Dry runs skip publish approval</li><li>Trusted hooks can be declared</li><li>Managed plugin drift is reported</li><li>Official npm plugin pins stay intact</li></ul></div></div><p class="caption">OpenClaw Weekly Dev Experience · slide 9 / 15</p></section><section class="slide layout-topic" id="s10"><div class="topbar"><div class="claw-wordmark"><span class="claw-weekly">Weekly</span><span class="claw-claw">CLAW</span><span class="claw-ep">Ep. <em class="ep-num">17</em></span></div><div class="meta">OpenClaw Community<br/>June 12, 2026</div></div><div class="ep-label">Release proof</div><h2 class="slide-title">Release proof got stricter<br/><span class="accent">Evidence lanes</span></h2><div class="gold-rule"></div><p class="lead">The release system now fails louder when proof is missing, oversized, or impossible to inspect.</p><div class="grid two-tight"><div class="card"><strong>Gates</strong><ul class="bullet-list"><li>Beta pages stay draft until npm and plugin proof pass</li><li>QA Lab requires runtime tool-call evidence</li><li>Resource ceilings are enforced, not only logged</li><li>Docker and E2E diagnostics are bounded</li></ul></div><div class="card"><strong>Receipts</strong><ul class="bullet-list"><li>npm package and tarball integrity</li><li>Release SHA and CI run links</li><li>Full evidence reports for 6.5 and 6.6</li><li>Plugin publish proof separated from core publish proof</li></ul></div></div><p class="caption">OpenClaw Weekly Dev Experience · slide 10 / 15</p></section><section class="slide layout-topic compact-slide" id="s11"><div class="topbar"><div class="claw-wordmark"><span class="claw-weekly">Weekly</span><span class="claw-claw">CLAW</span><span class="claw-ep">Ep. <em class="ep-num">17</em></span></div><div class="meta">OpenClaw Community<br/>June 12, 2026</div></div><div class="ep-label">DX review</div><h2 class="slide-title">The week through a builder&#x27;s eyes<br/><span class="accent">Dev Experience</span></h2><div class="gold-rule"></div><p class="lead">Builders got faster starts, safer installs, and fewer channel ghosts. Still not glamorous. Correctly so.</p><div class="grid two-tight"><div class="card"><strong>Less friction</strong><ul class="bullet-list"><li>Faster Control UI startup</li><li>First replies are easier to diagnose</li><li>OpenRouter OAuth reduces setup drag</li><li>Dry-run plugin flows avoid noisy approvals</li></ul></div><div class="card"><strong>More trust</strong><ul class="bullet-list"><li>Approvals fail closed</li><li>Releases carry verifiable evidence</li><li>Tool output boundaries are stricter</li><li>Local model paths avoid unnecessary review</li></ul></div></div><p class="caption">OpenClaw Weekly Dev Experience · slide 11 / 15</p></section><section class="slide layout-topic compact-slide" id="s12"><div class="topbar"><div class="claw-wordmark"><span class="claw-weekly">Weekly</span><span class="claw-claw">CLAW</span><span class="claw-ep">Ep. <em class="ep-num">17</em></span></div><div class="meta">OpenClaw Community<br/>June 12, 2026</div></div><div class="ep-label">Video signal</div><h2 class="slide-title">Build the thing that builds the thing<br/><span class="accent">Peter Steinberger · BRK245</span></h2><div class="gold-rule"></div><p class="lead">Peter's talk is the missing through-line for Week 17: OpenClaw is not only shipping features; it is building the feedback loops that let agents ship safely.</p><div class="grid two-tight"><div class="card"><strong>Worth calling out</strong><ul class="bullet-list"><li>Build tools for agent feedback, not just faster human coding</li><li>Close the loop with screenshots, tests, video, and maintainer receipts</li><li>Treat issues and PRs as prompt requests that can be triaged repeatedly</li><li>Use project invariants and vision files so fresh agents know the rules</li></ul></div><div class="card"><strong>Why it fits this week</strong><ul class="bullet-list"><li>Week 17 hardened approvals, channels, cron, plugins, and release evidence</li><li>The talk names the same bar: autonomy with proof, not autonomy by vibes</li><li>Crab Box, Mantis, Auto Review, and prompt provenance map directly to the DX story</li></ul></div></div><p class="caption">Source: “Build the thing that builds the thing” / BRK245 · slide 12 / 15</p></section><section class="slide layout-topic compact-slide" id="s13"><div class="topbar"><div class="claw-wordmark"><span class="claw-weekly">Weekly</span><span class="claw-claw">CLAW</span><span class="claw-ep">Ep. <em class="ep-num">17</em></span></div><div class="meta">OpenClaw Community<br/>June 12, 2026</div></div><div class="ep-label">Community signal</div><h2 class="slide-title">The community is testing the edges<br/><span class="accent">Signal</span></h2><div class="gold-rule"></div><p class="lead">The busiest labels and release notes point to the same pattern: session state, proof, compatibility, and maintainer review pressure.</p><div class="grid two-tight"><div class="card"><strong>Repeated pressure</strong><ul class="bullet-list"><li>Session-state issues stayed prominent</li><li>Compatibility risk labels stayed loud</li><li>Proof supplied and proof sufficient both showed up heavily</li><li>Maintainer review queues remained visible</li></ul></div><div class="card"><strong>Good sign</strong><ul class="bullet-list"><li>A fix-heavy week is not stagnation</li><li>It means real users are finding seams</li><li>The runtime is being forced to explain itself</li></ul></div></div><p class="caption">OpenClaw Weekly Dev Experience · slide 13 / 15</p></section><section class="slide layout-topic compact-slide" id="s14"><div class="topbar"><div class="claw-wordmark"><span class="claw-weekly">Weekly</span><span class="claw-claw">CLAW</span><span class="claw-ep">Ep. <em class="ep-num">17</em></span></div><div class="meta">OpenClaw Community<br/>June 12, 2026</div></div><div class="ep-label">Signal map</div><h2 class="slide-title">Where to watch next<br/><span class="accent">Next bar</span></h2><div class="gold-rule"></div><p class="lead">The next useful work is not more surface area. It is clearer state, safer defaults, and receipts that survive handoff.</p><div class="grid two-tight"><div class="card"><strong>Watch</strong><ul class="bullet-list"><li>Provider onboarding and OAuth failure clarity</li><li>Channel delivery after restarts</li><li>Cron no-deliver and timeout reporting</li><li>Plugin install trust and rollback paths</li></ul></div><div class="card"><strong>Ask</strong><ul class="bullet-list"><li>Can a new builder explain the failure state?</li><li>Can maintainers audit the run without logs archaeology?</li><li>Can every risky action show its boundary?</li><li>Can proof stay small enough to inspect?</li></ul></div></div><p class="caption">OpenClaw Weekly Dev Experience · slide 14 / 15</p></section><section class="slide layout-outro" id="s15"><div class="ep-label">Summary</div><h2 class="slide-title">OpenClaw is becoming operational infrastructure<br/><span class="accent">Close</span></h2><div class="gold-rule"></div><p class="lead">Week 17 was not a shiny-feature week. It was better: the runtime got stricter about who can act, what can leak, how channels recover, and what proof must exist before a release ships.</p><div class="grid"><div class="card"><strong>Bottom line</strong><ul class="bullet-list"><li>Two stable releases</li><li>1,265 commits</li><li>Security and delivery hardening</li><li>A clearer path from agent demos to agent operations</li></ul></div></div><p class="caption">OpenClaw Weekly Dev Experience · slide 15 / 15</p></section></div>
 <div class="progress-bar" id="progressBar"></div><div class="slide-counter" id="slideCounter"></div><div class="nav-hint">← → or click to navigate</div>
 <script>
 const lobsterMarkup = (gradientId) => '<div class="lobster-icon" aria-hidden="true"><svg viewBox="0 0 120 120" fill="none" xmlns="http://www.w3.org/2000/svg"><path d="M60 10 C30 10 15 35 15 55 C15 75 30 95 45 100 L45 110 L55 110 L55 100 C55 100 60 102 65 100 L65 110 L75 110 L75 100 C90 95 105 75 105 55 C105 35 90 10 60 10Z" fill="url(#' + gradientId + ')"></path><path d="M20 45 C5 40 0 50 5 60 C10 70 20 65 25 55 C28 48 25 45 20 45Z" fill="url(#' + gradientId + ')"></path><path d="M100 45 C115 40 120 50 115 60 C110 70 100 65 95 55 C92 48 95 45 100 45Z" fill="url(#' + gradientId + ')"></path><path d="M45 15 Q35 5 30 8" stroke="var(--coral-bright)" stroke-width="2" stroke-linecap="round"></path><path d="M75 15 Q85 5 90 8" stroke="var(--coral-bright)" stroke-width="2" stroke-linecap="round"></path><circle cx="45" cy="35" r="6" fill="#050810"></circle><circle cx="75" cy="35" r="6" fill="#050810"></circle><circle cx="46" cy="34" r="2" fill="#00e5cc"></circle><circle cx="76" cy="34" r="2" fill="#00e5cc"></circle><defs><linearGradient id="' + gradientId + '" x1="0%" y1="0%" x2="100%" y2="100%"><stop offset="0%" stop-color="var(--logo-gradient-start)"></stop><stop offset="100%" stop-color="var(--logo-gradient-end)"></stop></linearGradient></defs></svg></div>';

diff --git a/docs/weekly-claw/week17-peter-build-video-correction-evidence.md b/docs/weekly-claw/week17-peter-build-video-correction-evidence.md
@@ -1,0 +1,89 @@
+# Weekly Claw Week 17 — Peter BRK245 video correction evidence
+
+## Requested correction
+
+Henry asked whether the Week 16 promise to cover Peter Steinberger's `Build the thing that builds the thing` video was included in Week 17, and then asked to add the video signal to the deck.
+
+## Source reviewed
+
+- Video: `Build the thing that builds the thing | BRK245`
+- URL: <https://youtu.be/o5IQMijn-Ks?si=0VN-XQwa2a07d7yw>
+- Local transcript: `/Users/enterprise/clawd/output/weekly-claw/week17-peter-build-thing-transcript.txt`
+- Transcript length: 1,127 timestamped lines
+
+## Deck change
+
+- Added new slide: `public/weekly-claw/week17/deck.html` slide 12
+- New slide title: `Build the thing that builds the thing`
+- Subtitle: `Peter Steinberger · BRK245`
+- Deck count changed from 14 slides to 15 slides.
+- Existing slides after DX review shifted:
+  - Community signal: slide 12 → slide 13
+  - Signal map: slide 13 → slide 14
+  - Summary: slide 14 → slide 15
+
+## Highlights selected
+
+The slide keeps the talk in the Weekly Claw frame: agent operations and proof loops, not a generic video recap.
+
+Worth calling out:
+
+- Build tools for agent feedback, not just faster human coding.
+- Close the loop with screenshots, tests, video, and maintainer receipts.
+- Treat issues and PRs as prompt requests that can be triaged repeatedly.
+- Use project invariants and vision files so fresh agents know the rules.
+
+Why it fits Week 17:
+
+- Week 17 hardened approvals, channels, cron, plugins, and release evidence.
+- Peter names the same bar: autonomy with proof, not autonomy by vibes.
+- Crab Box, Mantis, Auto Review, and prompt provenance map directly to the DX story.
+
+## Verification
+
+Commands/results:
+
+```text
+slides: 15
+jpgs: 15
+markers present:
+- Build the thing that builds the thing
+- BRK245
+- Crab Box
+- Mantis
+- Auto Review
+- prompt provenance
+forbidden markers absent:
+- docs.google.com/presentation
+- presentationId
+- Google Slides
+- for Henry
+- as requested
+- operator deck
+- talking to me
+```
+
+Build:
+
+```text
+npm run build
+SuperAda voice validation passed.
+Timeline validation passed (24 milestones).
+[build] 218 page(s) built
+[build] Complete!
+```
+
+Slide exports:
+
+- Regenerated `public/weekly-claw/week17/slide-01.jpg` through `slide-15.jpg`
+- Slide 12 export verified at `1920x1080`
+
+## Current local state
+
+Changed files:
+
+- `public/weekly-claw/week17/deck.html`
+- `public/weekly-claw/week17/slide-01.jpg` through `slide-15.jpg`
+- `docs/weekly-claw/week17-peter-build-video-correction-evidence.md`
+
+Not yet committed/pushed in this evidence note.
